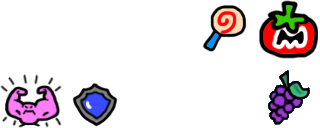
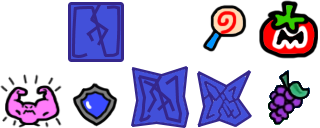
lvl 6 terminé

Changed region(s): [[0.4062, 0.5, 0.7812, 1.0], [0.1875, 0.0, 0.4062, 0.5]]

diff --git a/Platformer/Platformer_DynamicMovingPlatform.cpp b/Platformer/Platformer_DynamicMovingPlatform.cpp
@@ -271,6 +271,7 @@ std::map<std::string, std::vector<olc::Sprite*>> cDynamicMovingPlatform::LoadMov
 	mapPlatforms["basic"].push_back(new olc::Sprite("assets/gfx/basicPlatform.png"));
 	mapPlatforms["iceBasic"].push_back(new olc::Sprite("assets/gfx/iceBasicPlatform.png"));
 	mapPlatforms["marbleBasic"].push_back(new olc::Sprite("assets/gfx/marbleBasicPlatform.png"));
+	mapPlatforms["fountainBasic"].push_back(new olc::Sprite("assets/gfx/fountainBasicPlatform.png"));
 
 	mapPlatforms["ice"].push_back(new olc::Sprite("assets/gfx/icePlatform.png"));
 
@@ -278,16 +279,19 @@ std::map<std::string, std::vector<olc::Sprite*>> cDynamicMovingPlatform::LoadMov
 	mapPlatforms["iceWall"].push_back(new olc::Sprite("assets/gfx/iceWall.png"));
 	mapPlatforms["marbleWall"].push_back(new olc::Sprite("assets/gfx/marbleWall.png"));
 	mapPlatforms["marbleWallLong"].push_back(new olc::Sprite("assets/gfx/marbleWallLong.png"));
+	mapPlatforms["fountainWall"].push_back(new olc::Sprite("assets/gfx/fountainWall.png"));
 
 	mapPlatforms["toLeft"].push_back(new olc::Sprite("assets/gfx/toLeft.png"));
 	mapPlatforms["toRight"].push_back(new olc::Sprite("assets/gfx/toRight.png"));
 
 	mapPlatforms["ceiling"].push_back(new olc::Sprite("assets/gfx/ceiling.png"));
 	mapPlatforms["marbleCeiling"].push_back(new olc::Sprite("assets/gfx/marbleBasicCeiling.png"));
+	mapPlatforms["fountainCeiling"].push_back(new olc::Sprite("assets/gfx/fountainBasicCeiling.png"));
 #pragma endregion
 
 #pragma region Crushers
 	mapPlatforms["downCrusher"].push_back(new olc::Sprite("assets/gfx/downCrusher.png"));
+	mapPlatforms["fountainCrusher"].push_back(new olc::Sprite("assets/gfx/fountainCrusher.png"));
 #pragma endregion
 
 #pragma region HarmfulBlocs
@@ -306,6 +310,27 @@ std::map<std::string, std::vector<olc::Sprite*>> cDynamicMovingPlatform::LoadMov
 	mapPlatforms["shipFlame"].push_back(new olc::Sprite("assets/gfx/shipFlame00.png"));
 	mapPlatforms["shipFlame"].push_back(new olc::Sprite("assets/gfx/shipFlame01.png"));
 	mapPlatforms["shipFlame"].push_back(new olc::Sprite("assets/gfx/shipFlame02.png"));
+
+	mapPlatforms["poison"].push_back(new olc::Sprite("assets/gfx/poison00.png"));
+	mapPlatforms["poison"].push_back(new olc::Sprite("assets/gfx/poison00.png"));
+	mapPlatforms["poison"].push_back(new olc::Sprite("assets/gfx/poison01.png"));
+	mapPlatforms["poison"].push_back(new olc::Sprite("assets/gfx/poison01.png"));
+	mapPlatforms["poison"].push_back(new olc::Sprite("assets/gfx/poison02.png"));
+	mapPlatforms["poison"].push_back(new olc::Sprite("assets/gfx/poison02.png"));
+	mapPlatforms["poison"].push_back(new olc::Sprite("assets/gfx/poison03.png"));
+	mapPlatforms["poison"].push_back(new olc::Sprite("assets/gfx/poison03.png"));
+	mapPlatforms["poison"].push_back(new olc::Sprite("assets/gfx/poison04.png"));
+	mapPlatforms["poison"].push_back(new olc::Sprite("assets/gfx/poison04.png"));
+	mapPlatforms["poison"].push_back(new olc::Sprite("assets/gfx/poison05.png"));
+	mapPlatforms["poison"].push_back(new olc::Sprite("assets/gfx/poison05.png"));
+	mapPlatforms["poison"].push_back(new olc::Sprite("assets/gfx/poison06.png"));
+	mapPlatforms["poison"].push_back(new olc::Sprite("assets/gfx/poison06.png"));
+	mapPlatforms["poison"].push_back(new olc::Sprite("assets/gfx/poison07.png"));
+	mapPlatforms["poison"].push_back(new olc::Sprite("assets/gfx/poison07.png"));
+	mapPlatforms["poison"].push_back(new olc::Sprite("assets/gfx/poison08.png"));
+	mapPlatforms["poison"].push_back(new olc::Sprite("assets/gfx/poison08.png"));
+	mapPlatforms["poison"].push_back(new olc::Sprite("assets/gfx/poison09.png"));
+	mapPlatforms["poison"].push_back(new olc::Sprite("assets/gfx/poison09.png"));
 #pragma endregion
 
 	return mapPlatforms;
